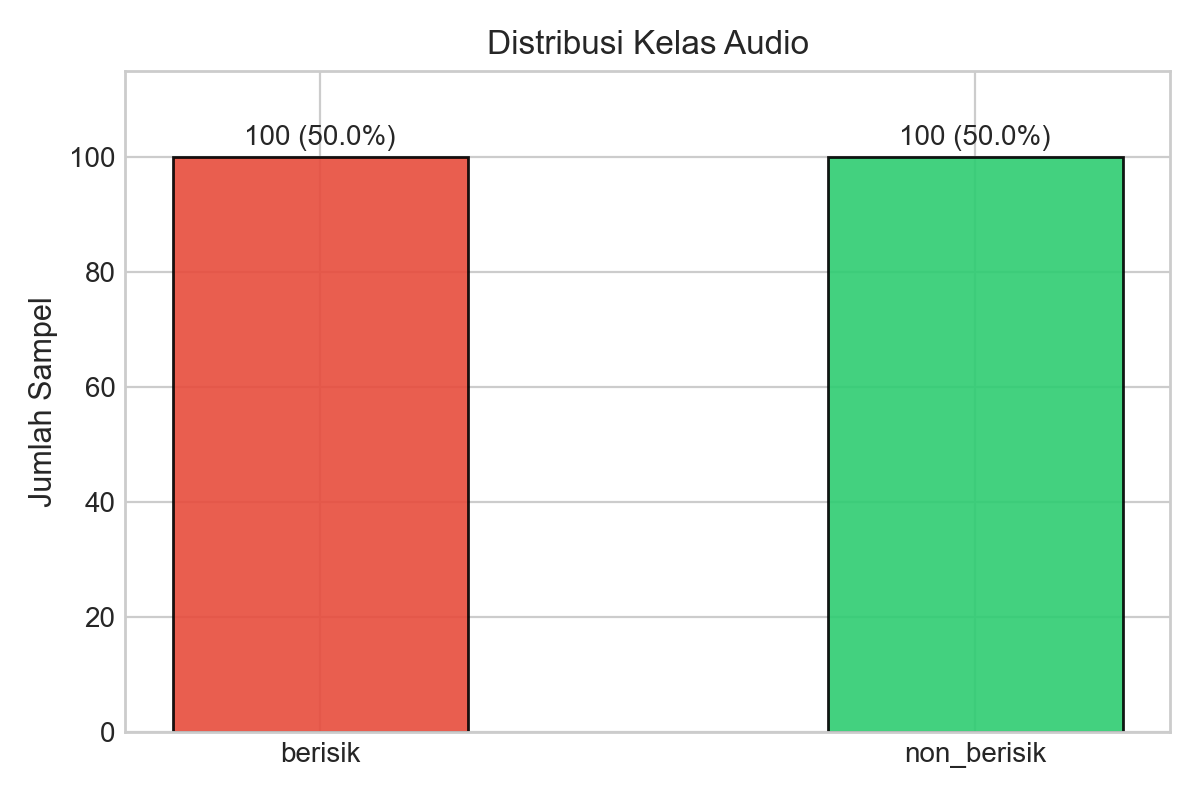
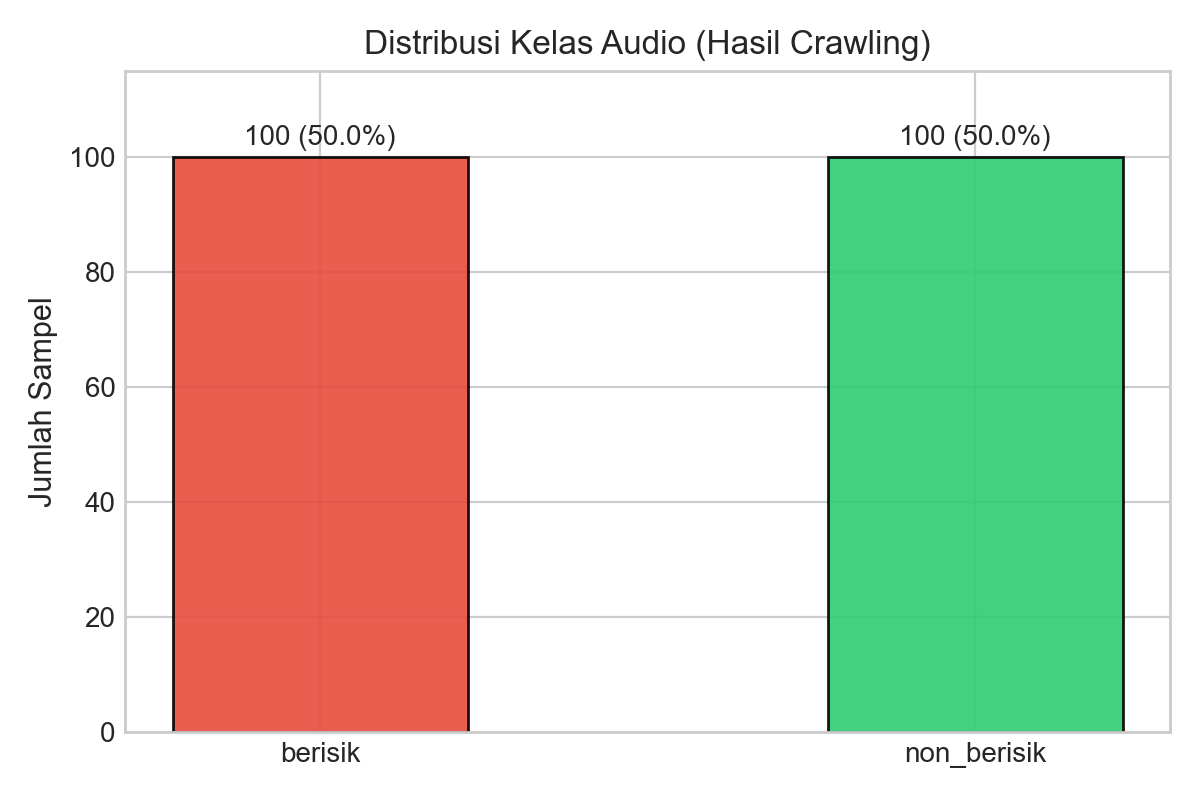
1

Changed region(s): [[0.3083, 0.0312, 0.7708, 0.0938]]

diff --git a/src/train_rf.py b/src/train_rf.py
@@ -1,10 +1,14 @@
 import os
+import io
 import json
+import zipfile
 import joblib
+import warnings
 import numpy as np
 import pandas as pd
 import matplotlib.pyplot as plt
 import seaborn as sns
+
 from sklearn.model_selection import train_test_split, StratifiedKFold
 from sklearn.preprocessing import StandardScaler, LabelEncoder
 from sklearn.ensemble import RandomForestClassifier
@@ -13,46 +17,171 @@ from sklearn.metrics import (
     confusion_matrix, ConfusionMatrixDisplay, classification_report,
     roc_curve, auc
 )
-import warnings
-warnings.filterwarnings('ignore')
 
+warnings.filterwarnings('ignore')
 plt.style.use('seaborn-v0_8-whitegrid' if 'seaborn-v0_8-whitegrid' in plt.style.available else 'default')
 
-def main():
-    base_dir = os.path.dirname(os.path.abspath(__file__))
-    root_dir = os.path.dirname(base_dir) # Mundur satu folder ke root (Audio-Classification)
+def extract_features_from_audio(file_obj, sr=22050):
+    """Ekstraksi 16 fitur audio menggunakan Librosa."""
+    import librosa
+    y, sr = librosa.load(file_obj, sr=sr, mono=True)
+    rms = float(np.mean(librosa.feature.rms(y=y)))
+    centroid = float(np.mean(librosa.feature.spectral_centroid(y=y, sr=sr)))
+    zcr = float(np.mean(librosa.feature.zero_crossing_rate(y=y)))
+    mfcc = librosa.feature.mfcc(y=y, sr=sr, n_mfcc=13)
+    mfcc_means = [float(np.mean(c)) for c in mfcc]
     
-    data_csv = os.path.join(root_dir, 'Backend', 'data', 'audio_features_16.csv')
+    features = {
+        'rms': rms,
+        'centroid': centroid,
+        'zcr': zcr,
+    }
+    for i, m_val in enumerate(mfcc_means, start=1):
+        features[f'mfcc_{i}'] = m_val
+        
+    return features, len(y) / sr
+
+def sync_crawling_data(root_dir):
+    """
+    Memeriksa dan menampilkan hasil crawling audio.
+    Jika CSV belum ada, lakukan ekstraksi otomatis dari folder crawling/data.
+    """
+    crawling_dir = os.path.join(root_dir, 'crawling')
+    raw_dir = os.path.join(root_dir, 'data', 'raw')
+    backend_data_dir = os.path.join(root_dir, 'Backend', 'data')
+    processed_dir = os.path.join(root_dir, 'data', 'processed')
+    
+    os.makedirs(backend_data_dir, exist_ok=True)
+    os.makedirs(processed_dir, exist_ok=True)
+    
+    csv_candidates = [
+        os.path.join(backend_data_dir, 'audio_features_16.csv'),
+        os.path.join(processed_dir, 'audio_features_16.csv'),
+        os.path.join(crawling_dir, 'audio_features_16.csv'),
+    ]
+    existing_csv = next((p for p in csv_candidates if os.path.exists(p)), None)
+    
+    print("\n" + "="*70)
+    print("1. PEMERIKSAAN & RINGKASAN DATA CRAWLING AUDIO")
+    print("="*70)
+    
+    # 1. Cek folder crawling (File ZIP)
+    zip_categories = [
+        ('File Audio Berisik.zip', 'berisik'),
+        ('File Audio Non Berisik.zip', 'non_berisik')
+    ]
+    
+    crawling_summary = {}
+    sample_files = []
+    
+    for zip_name, label in zip_categories:
+        zip_path = os.path.join(crawling_dir, zip_name)
+        if os.path.exists(zip_path):
+            with zipfile.ZipFile(zip_path, 'r') as zf:
+                valid_files = [f for f in zf.namelist() if not f.endswith('/') and not f.startswith('__MACOSX')]
+                crawling_summary[label] = len(valid_files)
+                for f in valid_files[:3]:
+                    sample_files.append((label, os.path.basename(f)))
+        else:
+            # Cek di folder raw
+            class_dir = os.path.join(raw_dir, label)
+            if os.path.exists(class_dir):
+                files = [f for f in os.listdir(class_dir) if f.lower().endswith(('.mp3', '.wav'))]
+                crawling_summary[label] = len(files)
+                for f in files[:3]:
+                    sample_files.append((label, f))
+    
+    total_crawled = sum(crawling_summary.values())
+    print(f"Status Sumber Crawling : Ditemukan {total_crawled} file audio mentah di folder crawling.")
+    for lbl, cnt in crawling_summary.items():
+        print(f" - Kategori [{lbl.upper()}] : {cnt} file audio")
+    
+    print("\nContoh File Hasil Crawling:")
+    for lbl, fname in sample_files:
+        print(f"   * [{lbl}] {fname}")
+        
+    # Jika CSV belum ada, ekstrak fitur otomatis
+    if not existing_csv:
+        print("\n[INFO] File CSV fitur belum ditemukan. Mengekstrak 16 fitur audio sekarang...")
+        records = []
+        for zip_name, label in zip_categories:
+            zip_path = os.path.join(crawling_dir, zip_name)
+            if os.path.exists(zip_path):
+                with zipfile.ZipFile(zip_path, 'r') as zf:
+                    flist = [f for f in zf.namelist() if not f.endswith('/') and not f.startswith('__MACOSX')]
+                    for f in flist:
+                        clean_fname = os.path.basename(f)
+                        with zf.open(f) as audio_f:
+                            try:
+                                feats, _ = extract_features_from_audio(io.BytesIO(audio_f.read()))
+                                records.append({'filename': clean_fname, 'label': label, **feats})
+                            except Exception as err:
+                                print(f"Gagal proses {clean_fname}: {err}")
+        
+        feature_cols = ['rms', 'centroid', 'zcr'] + [f'mfcc_{i}' for i in range(1, 14)]
+        ordered_cols = ['filename', 'label'] + feature_cols
+        df = pd.DataFrame(records)[ordered_cols]
+        target_csv = os.path.join(backend_data_dir, 'audio_features_16.csv')
+        df.to_csv(target_csv, index=False)
+        df.to_csv(os.path.join(processed_dir, 'audio_features_16.csv'), index=False)
+        return target_csv, df
+    else:
+        df = pd.read_csv(existing_csv)
+        return existing_csv, df
+
+def main():
+    # Kompatibilitas untuk script (.py) dan Jupyter Notebook
+    try:
+        base_dir = os.path.dirname(os.path.abspath(__file__))
+        root_dir = os.path.dirname(base_dir) # Mundur satu folder ke root
+    except NameError:
+        cwd = os.getcwd()
+        if os.path.basename(cwd) in ['src', 'notebooks']:
+            root_dir = os.path.dirname(cwd)
+        else:
+            root_dir = cwd
+        base_dir = os.path.join(root_dir, 'src')
+        
     images_dir = os.path.join(root_dir, 'docs', 'images') 
     models_dir = os.path.join(root_dir, 'models')
+    backend_models_dir = os.path.join(root_dir, 'Backend', 'models')
     
     os.makedirs(images_dir, exist_ok=True)
     os.makedirs(models_dir, exist_ok=True)
+    os.makedirs(backend_models_dir, exist_ok=True)
     
-    print("="*60)
-    print("1. MEMUAT DATASET FITUR AUDIO")
-    print("="*60)
-    df = pd.read_csv(data_csv)
-    print(f"Dataset berhasil dimuat: {df.shape[0]} baris, {df.shape[1]} kolom.")
-    print(df['label'].value_counts())
+    # 1. Sinkronisasi & Tampilkan Hasil Crawling
+    csv_path, df = sync_crawling_data(root_dir)
     
+    print("\n" + "="*70)
+    print("2. DATASET 16 FITUR HASIL EKSTRAKSI")
+    print("="*70)
+    print(f"Lokasi File CSV       : {csv_path}")
+    print(f"Total Sampel Dataset  : {df.shape[0]} baris")
+    print(f"Jumlah Kolom Data     : {df.shape[1]} kolom (2 identitas + 16 fitur akustik)")
+    print("\nSebaran Kelas Dataset:")
+    counts = df['label'].value_counts()
+    for lbl, c in counts.items():
+        print(f" - {lbl:<12} : {c} sampel ({c/len(df)*100:.1f}%)")
+        
+    print("\nPratinjau Data (5 Baris Pertama):")
     feature_cols = ['rms', 'centroid', 'zcr'] + [f'mfcc_{i}' for i in range(1, 14)]
-    
+    print(df[['filename', 'label', 'rms', 'centroid', 'zcr', 'mfcc_1', 'mfcc_2']].head().to_string(index=False))
+
     # -------------------------------------------------------------------------
     # 2. EDA & VISUALISASI
     # -------------------------------------------------------------------------
-    print("\n" + "="*60)
-    print("2. MEMBUAT VISUALISASI EDA")
-    print("="*60)
+    print("\n" + "="*70)
+    print("3. MEMBUAT VISUALISASI EKSPLORASI DATA (EDA)")
+    print("="*70)
     
     # a. Class Distribution
     fig, ax = plt.subplots(figsize=(6, 4))
-    counts = df['label'].value_counts()
     bars = ax.bar(counts.index, counts.values, color=['#e74c3c', '#2ecc71'], width=0.45, edgecolor='black', alpha=0.9)
     for bar in bars:
         yval = bar.get_height()
         ax.text(bar.get_x() + bar.get_width()/2.0, yval + 1, f'{yval} ({yval/len(df)*100:.1f}%)', ha='center', va='bottom')
-    ax.set_title('Distribusi Kelas Audio', fontsize=12)
+    ax.set_title('Distribusi Kelas Audio (Hasil Crawling)', fontsize=12)
     ax.set_ylabel('Jumlah Sampel', fontsize=11)
     ax.set_ylim(0, max(counts.values) + 15)
     plt.tight_layout()
@@ -78,47 +207,53 @@ def main():
     plt.tight_layout()
     plt.savefig(os.path.join(images_dir, 'correlation_matrix.png'), dpi=200)
     plt.close()
-    
+    print("Grafik EDA berhasil diekspor ke folder docs/images/.")
+
     # -------------------------------------------------------------------------
     # 3. PREPROCESSING & SPLITTING
     # -------------------------------------------------------------------------
-    print("\n" + "="*60)
-    print("3. PREPROCESSING & ENCODING")
-    print("="*60)
+    print("\n" + "="*70)
+    print("4. PREPROCESSING & PEMBAGIAN DATA (80% LATIH : 20% UJI)")
+    print("="*70)
     
     X = df[feature_cols].values
-    
     le = LabelEncoder()
     y_encoded = le.fit_transform(df['label'].values)
-    print(f"Mapping Label: {dict(zip(le.classes_, le.transform(le.classes_)))}")
+    mapping = dict(zip(le.classes_, [int(x) for x in le.transform(le.classes_)]))
+    print(f"Mapping Label Kelas : {mapping}")
     
     X_train, X_test, y_train, y_test = train_test_split(
         X, y_encoded, test_size=0.2, random_state=14, stratify=y_encoded
     )
     
+    print(f"Jumlah Data Latih (Train Set) : {X_train.shape[0]} sampel (80%)")
+    print(f"Jumlah Data Uji   (Test Set)  : {X_test.shape[0]} sampel (20%) -> 20 Berisik, 20 Non-Berisik")
+    
     scaler = StandardScaler()
     X_train_scaled = scaler.fit_transform(X_train)
     X_test_scaled = scaler.transform(X_test)
-    
+    print("Penskalaan fitur menggunakan StandardScaler selesai.")
+
     # -------------------------------------------------------------------------
     # 4. MODELING RANDOM FOREST
     # -------------------------------------------------------------------------
-    print("\n" + "="*60)
-    print("4. PELATIHAN MODEL RANDOM FOREST")
-    print("="*60)
+    print("\n" + "="*70)
+    print("5. MELATIH MODEL RANDOM FOREST (100 DECISION TREES)")
+    print("="*70)
     
     rf_model = RandomForestClassifier(n_estimators=100, criterion='entropy', random_state=42)
     rf_model.fit(X_train_scaled, y_train)
+    print("Pelatihan model Random Forest selesai.")
     
     y_pred = rf_model.predict(X_test_scaled)
     y_proba = rf_model.predict_proba(X_test_scaled)
     
     # -------------------------------------------------------------------------
-    # 5. EVALUASI MODEL
+    # 5. EVALUASI MODEL PADA TEST SET
     # -------------------------------------------------------------------------
-    print("\n" + "="*60)
-    print("5. EVALUASI MODEL PADA TEST SET")
-    print("="*60)
+    print("\n" + "="*70)
+    print("6. EVALUASI HASIL PREDIKSI PADA DATA UJI (TEST SET)")
+    print("="*70)
     
     acc = accuracy_score(y_test, y_pred)
     berisik_code = int(le.transform(['berisik'])[0]) if 'berisik' in le.classes_ else 0
@@ -128,11 +263,29 @@ def main():
     rec = recall_score(y_test, y_pred, pos_label=berisik_code)
     f1 = f1_score(y_test, y_pred, pos_label=berisik_code)
     
-    print(f"Test Accuracy : {acc*100:.2f}%")
-    print("\nClassification Report:\n", classification_report(y_test, y_pred, target_names=le.classes_))
+    # ROC Curve & AUC
+    fpr, tpr, _ = roc_curve(y_test, y_proba[:, non_berisik_code], pos_label=non_berisik_code)
+    roc_auc = auc(fpr, tpr)
     
     # Confusion Matrix
     cm = confusion_matrix(y_test, y_pred)
+    
+    print(f"[*] AKURASI PENGUJIAN (Test Accuracy) : {acc*100:.2f}%")
+    print(f"[*] Presisi Kelas Berisik              : {prec*100:.2f}%")
+    print(f"[*] Recall Kelas Berisik               : {rec*100:.2f}%")
+    print(f"[*] F1-Score Kelas Berisik             : {f1*100:.2f}%")
+    print(f"[*] ROC-AUC Score                      : {roc_auc:.4f}")
+    
+    print("\nLaporan Klasifikasi Lengkap (Classification Report):")
+    print(classification_report(y_test, y_pred, target_names=le.classes_))
+    
+    print("Confusion Matrix:")
+    print(f" - Benar Berisik     (True Positive)  : {cm[0][0]} sampel")
+    print(f" - Salah Ditebak     (False Negative) : {cm[0][1]} sampel")
+    print(f" - Salah Berisik     (False Positive) : {cm[1][0]} sampel")
+    print(f" - Benar Non-Berisik (True Negative)  : {cm[1][1]} sampel")
+    
+    # Simpan Gambar Confusion Matrix
     fig, ax = plt.subplots(figsize=(5.5, 4.5))
     disp = ConfusionMatrixDisplay(confusion_matrix=cm, display_labels=[c.replace('_', '-').title() for c in le.classes_])
     disp.plot(cmap='Blues', ax=ax, values_format='d')
@@ -141,10 +294,7 @@ def main():
     plt.savefig(os.path.join(images_dir, 'confusion_matrix.png'), dpi=200)
     plt.close()
     
-    # ROC Curve
-    fpr, tpr, _ = roc_curve(y_test, y_proba[:, non_berisik_code], pos_label=non_berisik_code)
-    roc_auc = auc(fpr, tpr)
-    
+    # Simpan Gambar ROC Curve
     fig, ax = plt.subplots(figsize=(6, 4.5))
     ax.plot(fpr, tpr, color='#e67e22', lw=2.5, label=f'ROC Curve (AUC = {roc_auc:.3f})')
     ax.plot([0, 1], [0, 1], color='#7f8c8d', lw=1.5, linestyle='--')
@@ -153,16 +303,13 @@ def main():
     plt.tight_layout()
     plt.savefig(os.path.join(images_dir, 'roc_curve.png'), dpi=200)
     plt.close()
-    
+
     # -------------------------------------------------------------------------
     # 6. SIMPAN MODEL & ARTIFAK
     # -------------------------------------------------------------------------
-    print("\n" + "="*60)
-    print("6. MENYIMPAN MODEL & SCALER")
-    print("="*60)
-    
-    backend_models_dir = os.path.join(root_dir, 'Backend', 'models')
-    os.makedirs(backend_models_dir, exist_ok=True)
+    print("\n" + "="*70)
+    print("7. MENYIMPAN MODEL & ARTIFAK SERIALISASI")
+    print("="*70)
     
     metadata = {
         'model_name': 'Random Forest',
@@ -183,8 +330,9 @@ def main():
         joblib.dump(le, os.path.join(target_dir, 'label_encoder.pkl'))
         with open(os.path.join(target_dir, 'model_metadata.json'), 'w', encoding='utf-8') as f:
             json.dump(metadata, f, indent=4)
+        print(f"Artifak tersimpan di: {target_dir}")
         
-    print("SEMUA PROSES SELESAI DENGAN SUKSES!")
+    print("\n>>> SEMUA PROSES PELATIHAN DAN PENYIMPANAN SELESAI DENGAN SUKSES! <<<")
 
 if __name__ == '__main__':
     main()
